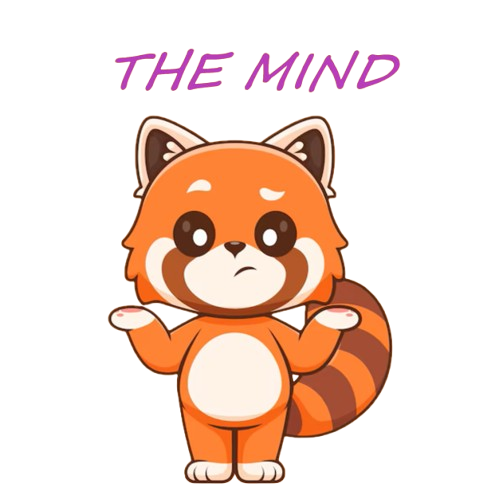
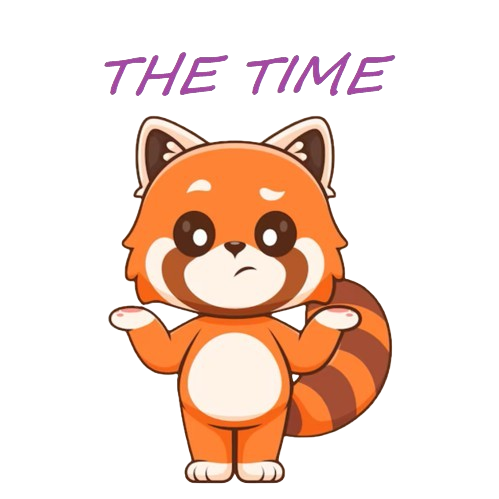
Title update

diff --git a/README.md b/README.md
@@ -1,4 +1,4 @@
-# The Mind
+# The Time
 
 <p align="center">
 <img src="./images/animal.png" width="20%">
